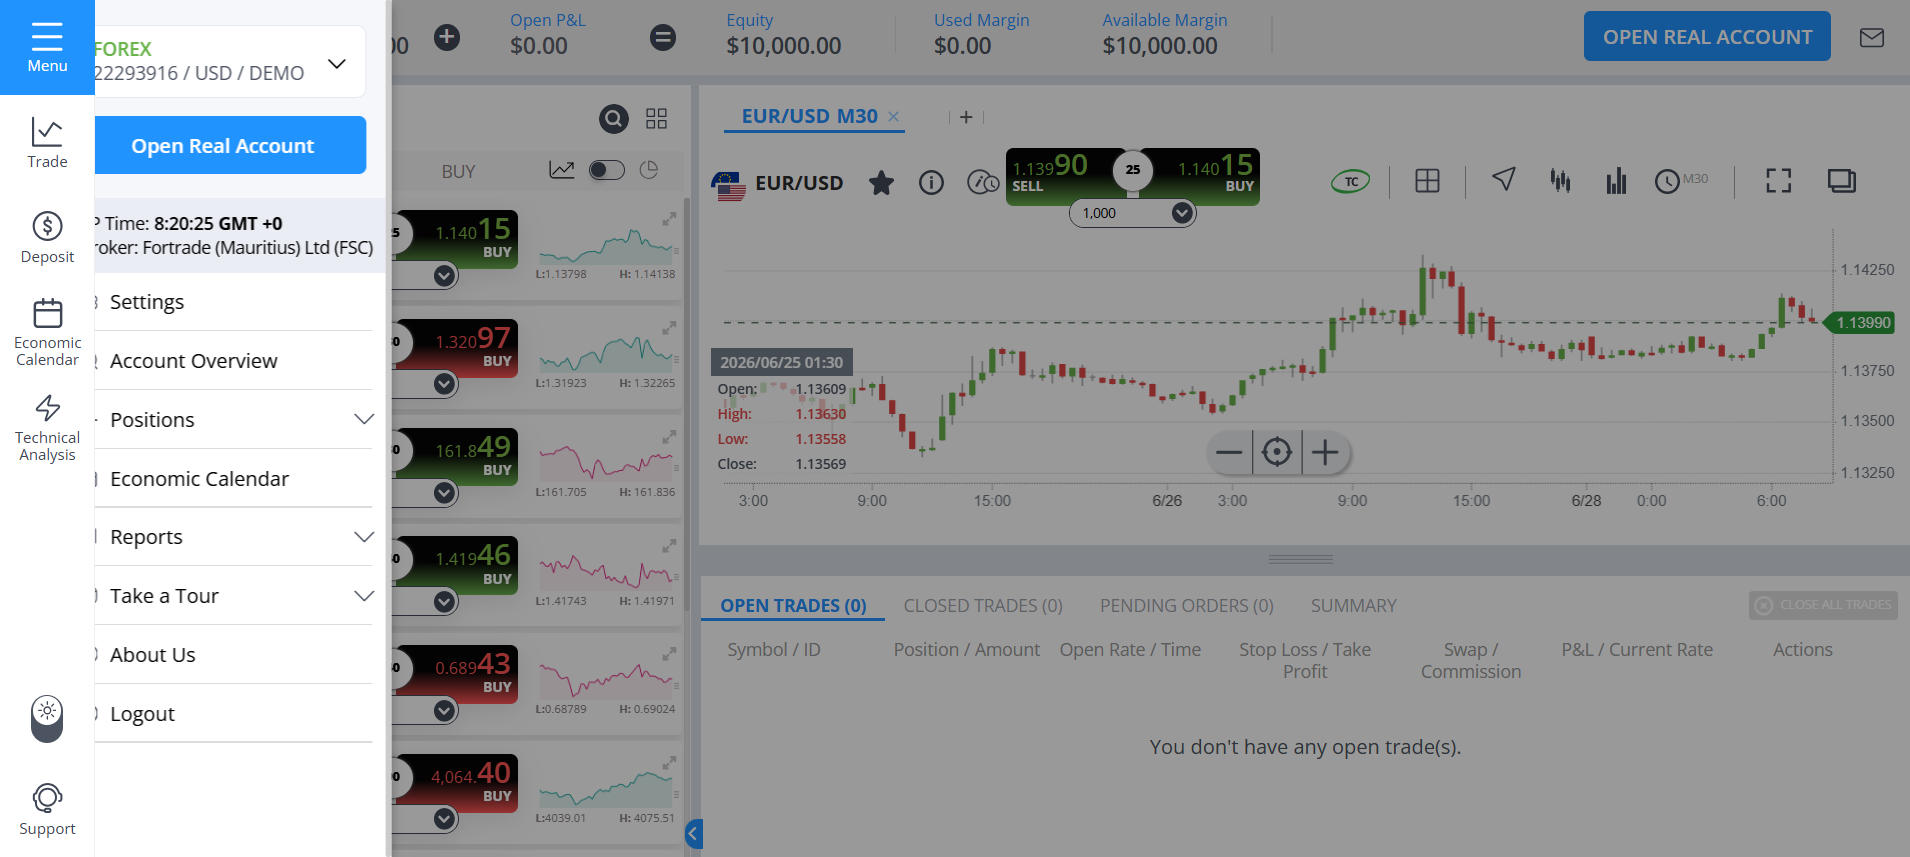
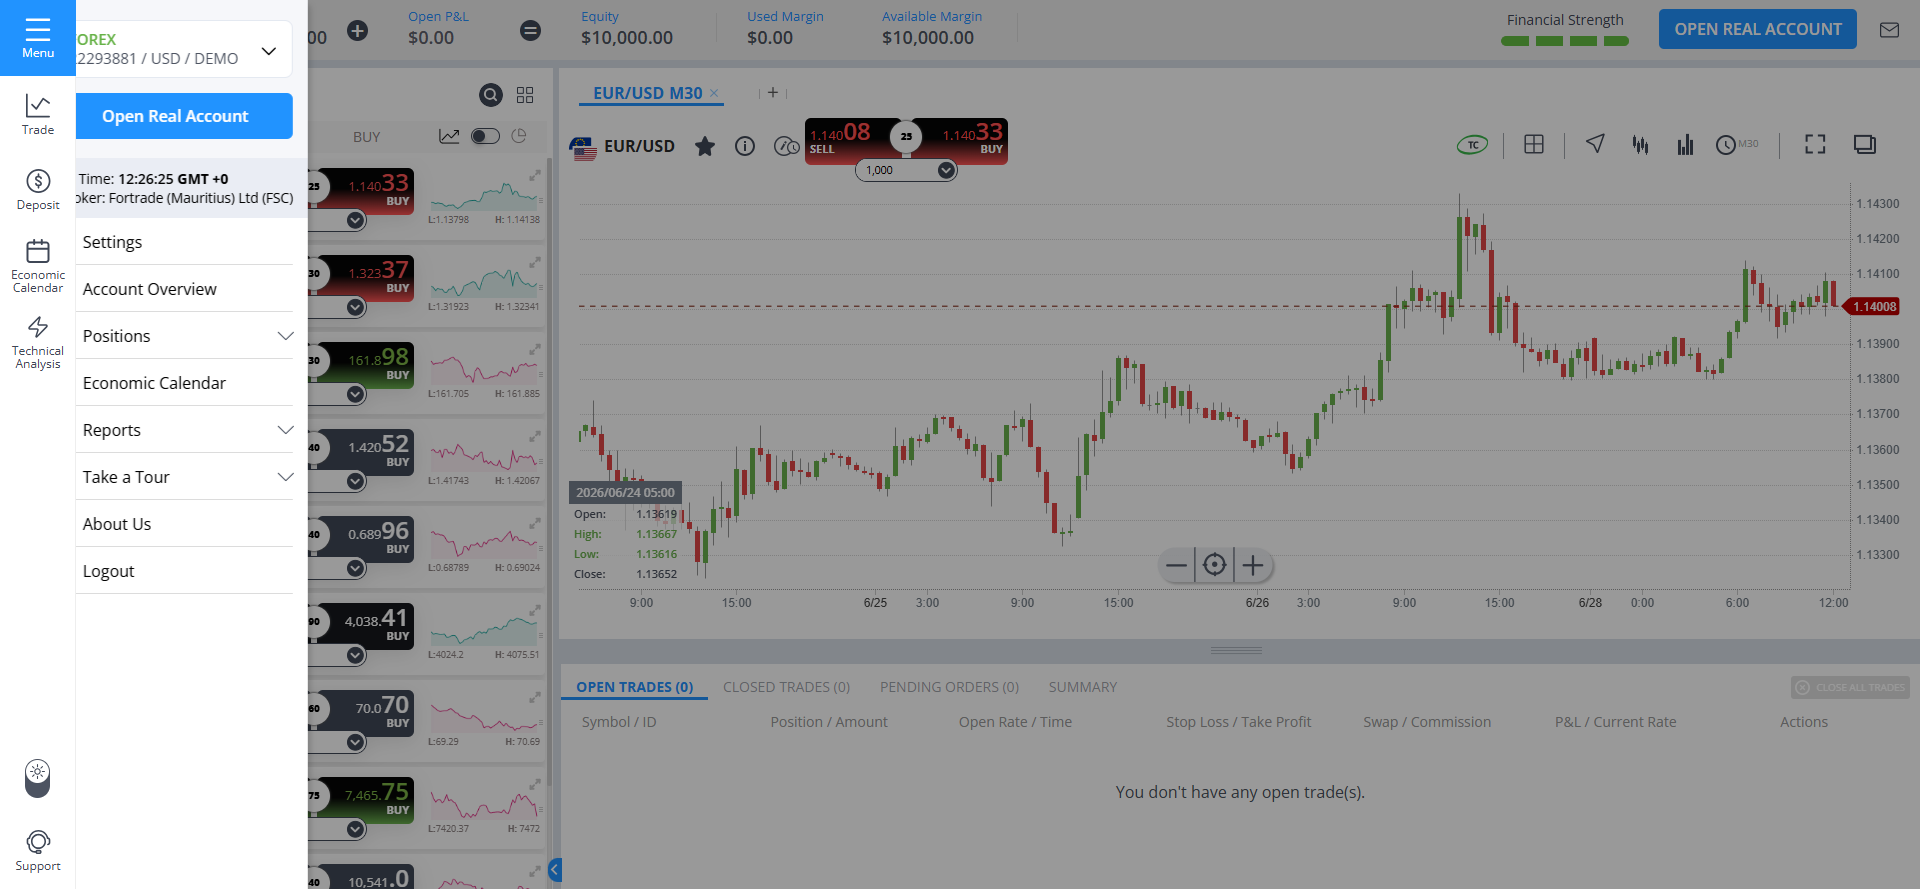
Added new class AllureEnvironmentWriter

diff --git a/src/main/java/core/utils/AllureEnvironmentWriter.java b/src/main/java/core/utils/AllureEnvironmentWriter.java
@@ -1,0 +1,55 @@
+package core.utils;
+
+import core.config.ConfigReader;
+
+import java.io.File;
+import java.io.FileOutputStream;
+import java.io.IOException;
+import java.util.Properties;
+
+public class AllureEnvironmentWriter {
+
+    public static void writeEnvironment() {
+
+        try {
+
+            Properties properties = new Properties();
+
+            properties.setProperty(
+                    "Browser",
+                    ConfigReader.getBrowser()
+            );
+
+            properties.setProperty(
+                    "Environment",
+                    System.getProperty("env", "local")
+            );
+
+            properties.setProperty(
+                    "OS",
+                    System.getProperty("os.name")
+            );
+
+            File resultsDir = new File("allure-results");
+
+            if (!resultsDir.exists()) {
+                resultsDir.mkdirs();
+            }
+
+            try (FileOutputStream output =
+                         new FileOutputStream(
+                                 new File(resultsDir, "environment.properties")
+                         )) {
+
+                properties.store(output, "Allure Environment");
+            }
+
+        } catch (IOException e) {
+
+            throw new RuntimeException(
+                    "Unable to create environment.properties",
+                    e
+            );
+        }
+    }
+}

diff --git a/src/test/java/core/base/BaseTest.java b/src/test/java/core/base/BaseTest.java
@@ -2,12 +2,12 @@ package core.base;
 
 import core.driver.DriverManager;
 import core.utils.ScreenshotUtil;
-import io.qameta.allure.Allure;
 import org.openqa.selenium.Dimension;
 import org.testng.ITestResult;
 import org.testng.annotations.AfterMethod;
 import org.testng.annotations.BeforeMethod;
 import org.testng.annotations.Parameters;
+import core.utils.AllureEnvironmentWriter;
 
 public class BaseTest {
 
@@ -21,11 +21,8 @@ public class BaseTest {
         System.setProperty("env", env);
         System.setProperty("browser", browser);
 
-        // Allure parameters
-        Allure.parameter("env", env);
-        Allure.parameter("browser", browser);
-
         DriverManager.initDriver();
+        AllureEnvironmentWriter.writeEnvironment();
 
         String os = System.getProperty("os.name").toLowerCase();
 
